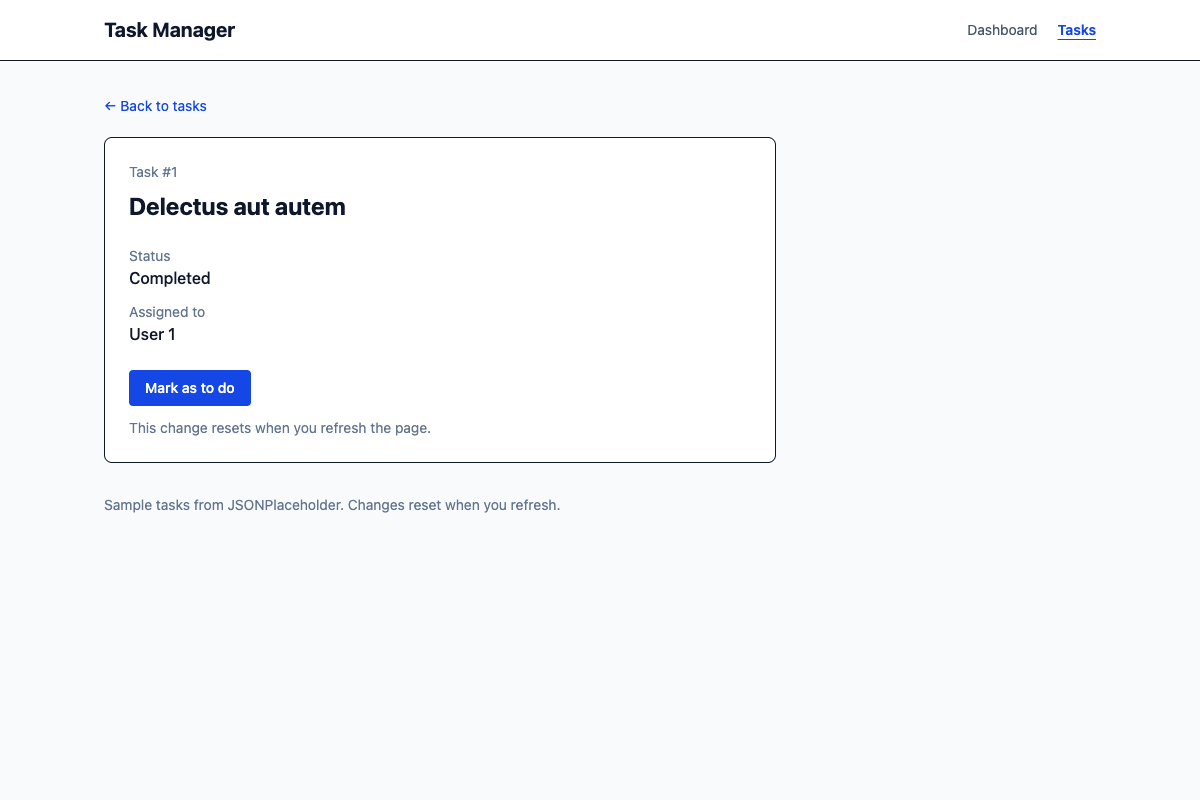
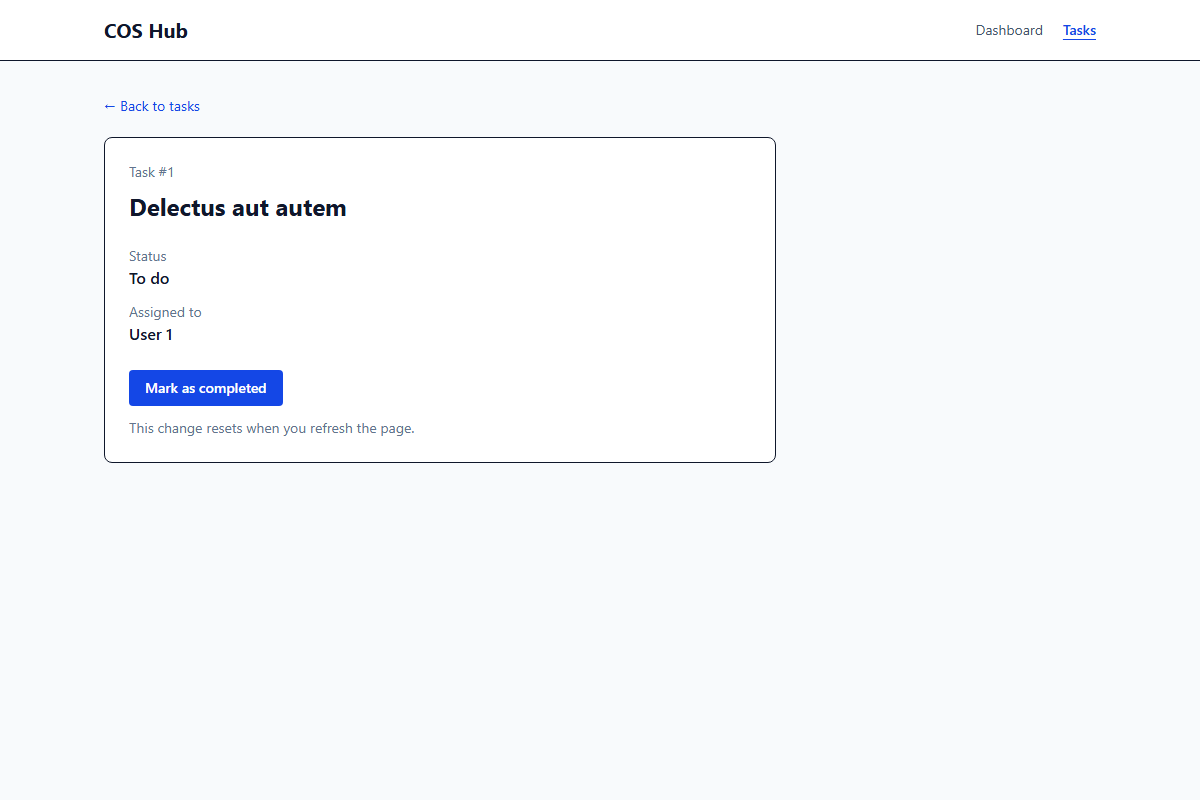
Rename app to COS Hub

diff --git a/src/App.jsx b/src/App.jsx
@@ -30,7 +30,7 @@ function App() {
     <div className="min-h-screen bg-slate-50 text-slate-900">
       <header className="border-b bg-white">
         <div className="mx-auto flex max-w-5xl flex-wrap items-center justify-between gap-3 px-4 py-4">
-          <Link to="/" className="text-xl font-bold text-slate-900">Task Manager</Link>
+          <Link to="/" className="text-xl font-bold text-slate-900">COS Hub</Link>
           <nav aria-label="Main navigation" className="flex gap-5 text-sm">
             <NavLink to="/" end className={navClass}>Dashboard</NavLink>
             <NavLink to="/tasks" className={navClass}>Tasks</NavLink>

diff --git a/index.html b/index.html
@@ -4,8 +4,8 @@
     <meta charset="UTF-8" />
     <meta name="viewport" content="width=device-width, initial-scale=1.0" />
     <meta name="theme-color" content="#f8fafc" />
-    <meta name="description" content="A simple task and productivity manager built with React." />
-    <title>Task Manager</title>
+    <meta name="description" content="COS Hub is a React task manager for browsing and tracking sample tasks." />
+    <title>COS Hub</title>
   </head>
   <body>
     <div id="root"></div>

diff --git a/README.md b/README.md
@@ -1,6 +1,6 @@
 # Mini-project 1 - React Task & Productivity Manager
 
-## Task and Productivity Manager
+## COS Hub (Chief of Staff Hub)
 
 A responsive task manager that displays 20 sample tasks, lets you search and filter them, and lets you change their completion status during your visit. It uses JSONPlaceholder for sample data, so status changes reset when the page is refreshed.
 
